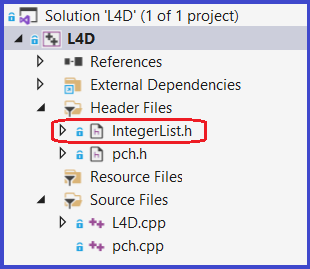
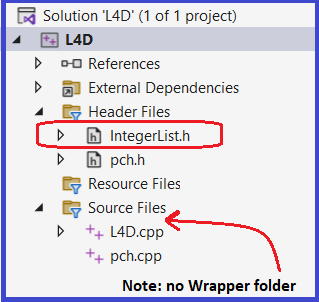
update L4

Changed region(s): [[0.0, 0.0, 1.0, 1.0], [0.1161, 0.6543, 0.1452, 0.7732]]

diff --git a/Assignments/2024/Lab4/L4.html b/Assignments/2024/Lab4/L4.html
@@ -40,10 +40,14 @@
         <ul>
           <li>Create project L4D</li>
           <li>Make it a Unit Test Project</li>
-          <li>Configure it to run in Debug configuration</li>
+          <li>Configure it to run in Debug configuration</li>  
+			<ul><li>Perform the <a href="https://drholly77.github.io/CSSE373Pages/LabRelated/changingUnitTestProjectsSettingsVs.html" target="new">regular modifications to the projects settings</a></li>
+			<li>Perform <a href="https://drholly77.github.io/CSSE373Pages/LabRelated/changingProjectsSettingsToUseWrapperLib.html" target="new">additions modifications</a> to make linker use WrapperD.lib and WrapperR.lib</li></ul>
+		  
           <li>Create file IntegerList.h (see 1.5 below) and add it to your L4D project (as shown in the screenshot to the right)</li>
           <li>Copy L4D.cpp file from the downloaded .zip to your new <em>csse373devenv202x30-yourID\L4D</em> folder<br>
             The test cases in the downloaded L4D.cpp will test your implementation of List3.hpp while in Debug configuration, so they test against the values stored in List3's internal representation</li>
+			<li>Note: because we are using the Wrapper.lib files, there is no need to add the Wrapper folder to the project's Source Files folder - this will speed up building of the project </li>
         </ul>
         <h4>1.4 Create L4R project</h4>
         <ul>
@@ -53,15 +57,18 @@
           <li>Create file IntegerList.h as show below and add it to your L4R project in the same manner that you added to the L4D project</li>
           <li>Copy L3R.cpp file from csse373devenv202x30-yourID\L3R  to your new <em>csse373devenv202x30-yourID\L4R</em> folder<br>
             We can reuse the test cases from L3R because they test at the abstract level, and List3's abstract values are the same as List2's abstract values</li>
+			<li>After copying L3R.cpp, delete L4R.cpp and rename L3R.cpp to L4R.cpp</li>
         </ul></td>
-      <td valign="top" align="right"><p><img src="L4DProject.png" width="310" height="269" alt=""/></p></td>
+      <td valign="top" align="right"><p><img src="L4DProject.png" width="319" height="302" alt=""/>
+		  <img src="L4RProject.png" width="284" height="275" alt=""/></p></td>
     </tr>
     <tr>
       <td><h4>1.5 How to create IntegerList.h</h4>
         <ul>
           <li>See screenshot to the right</li>
       </ul></td>
-      <td align="right"><img src="L4IntegerList.png" width="452" height="172" alt=""/></td>
+      <td align="right"><img src="L4IntegerList.png" width="452" height="172" alt=""/>
+		</td>
     </tr>
   </tbody>
 </table>
